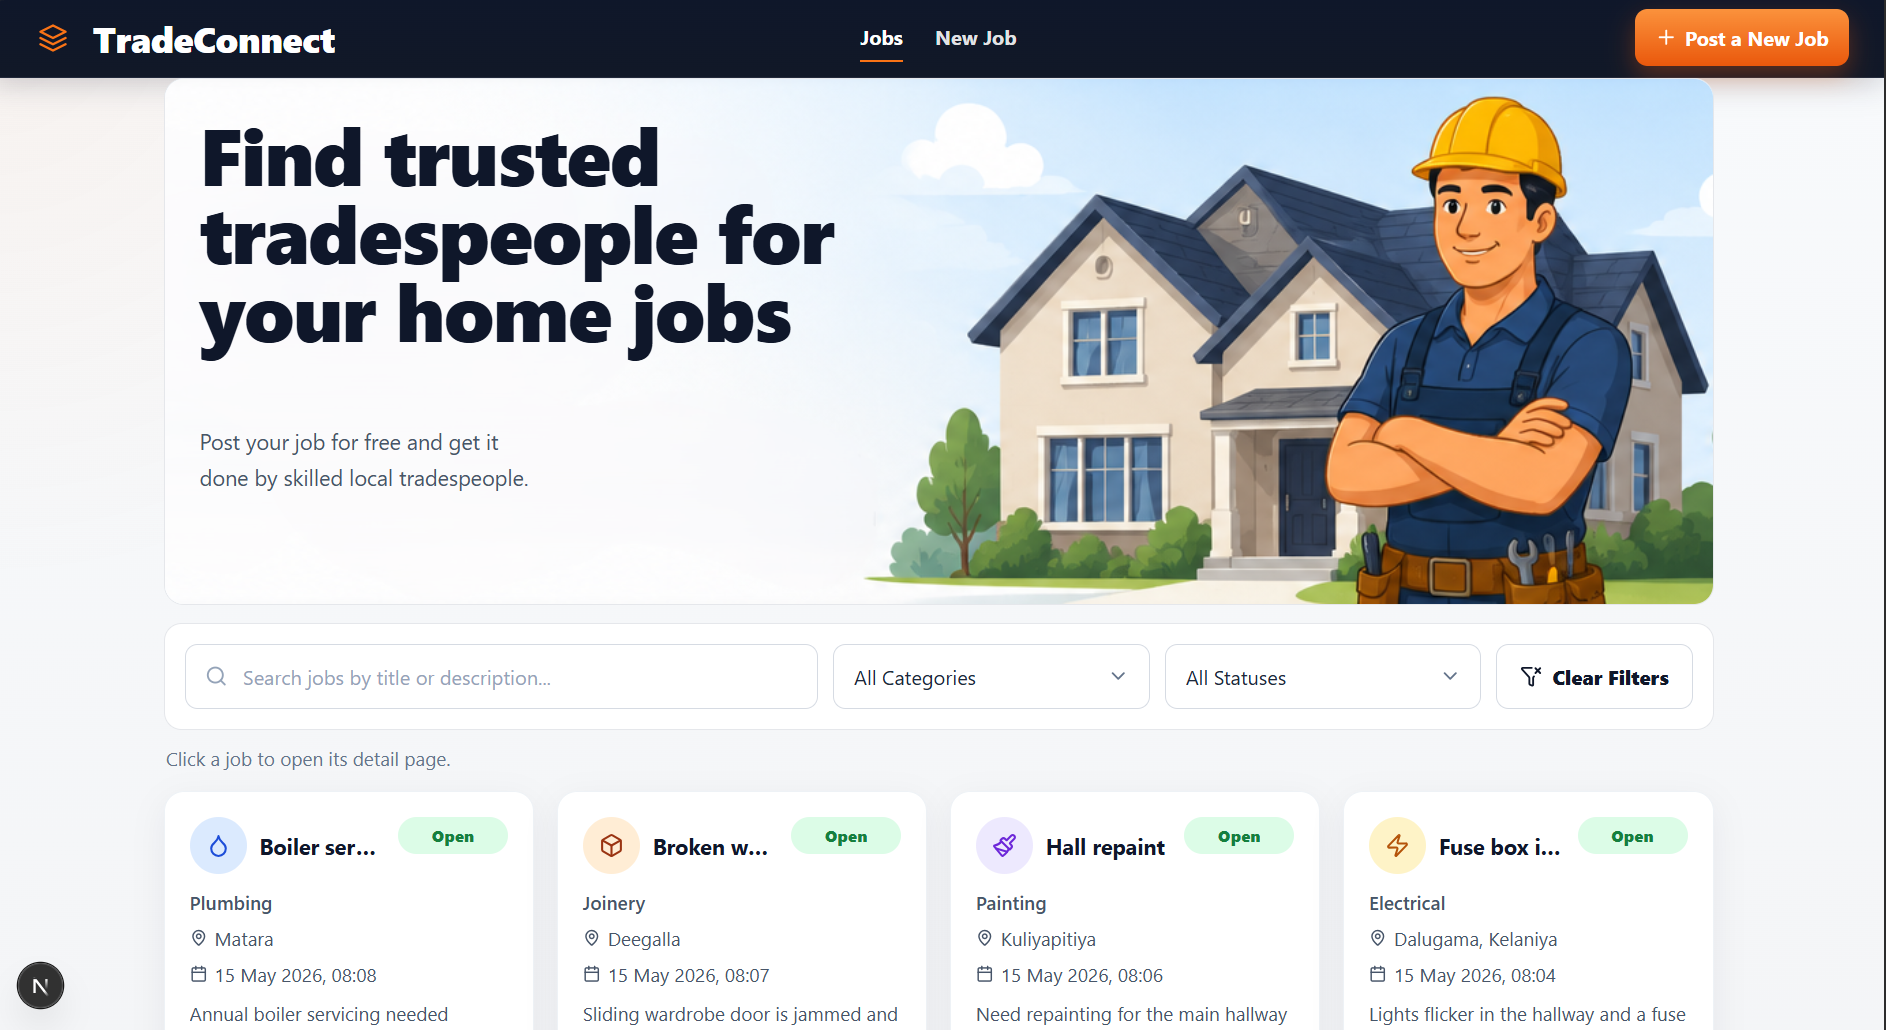
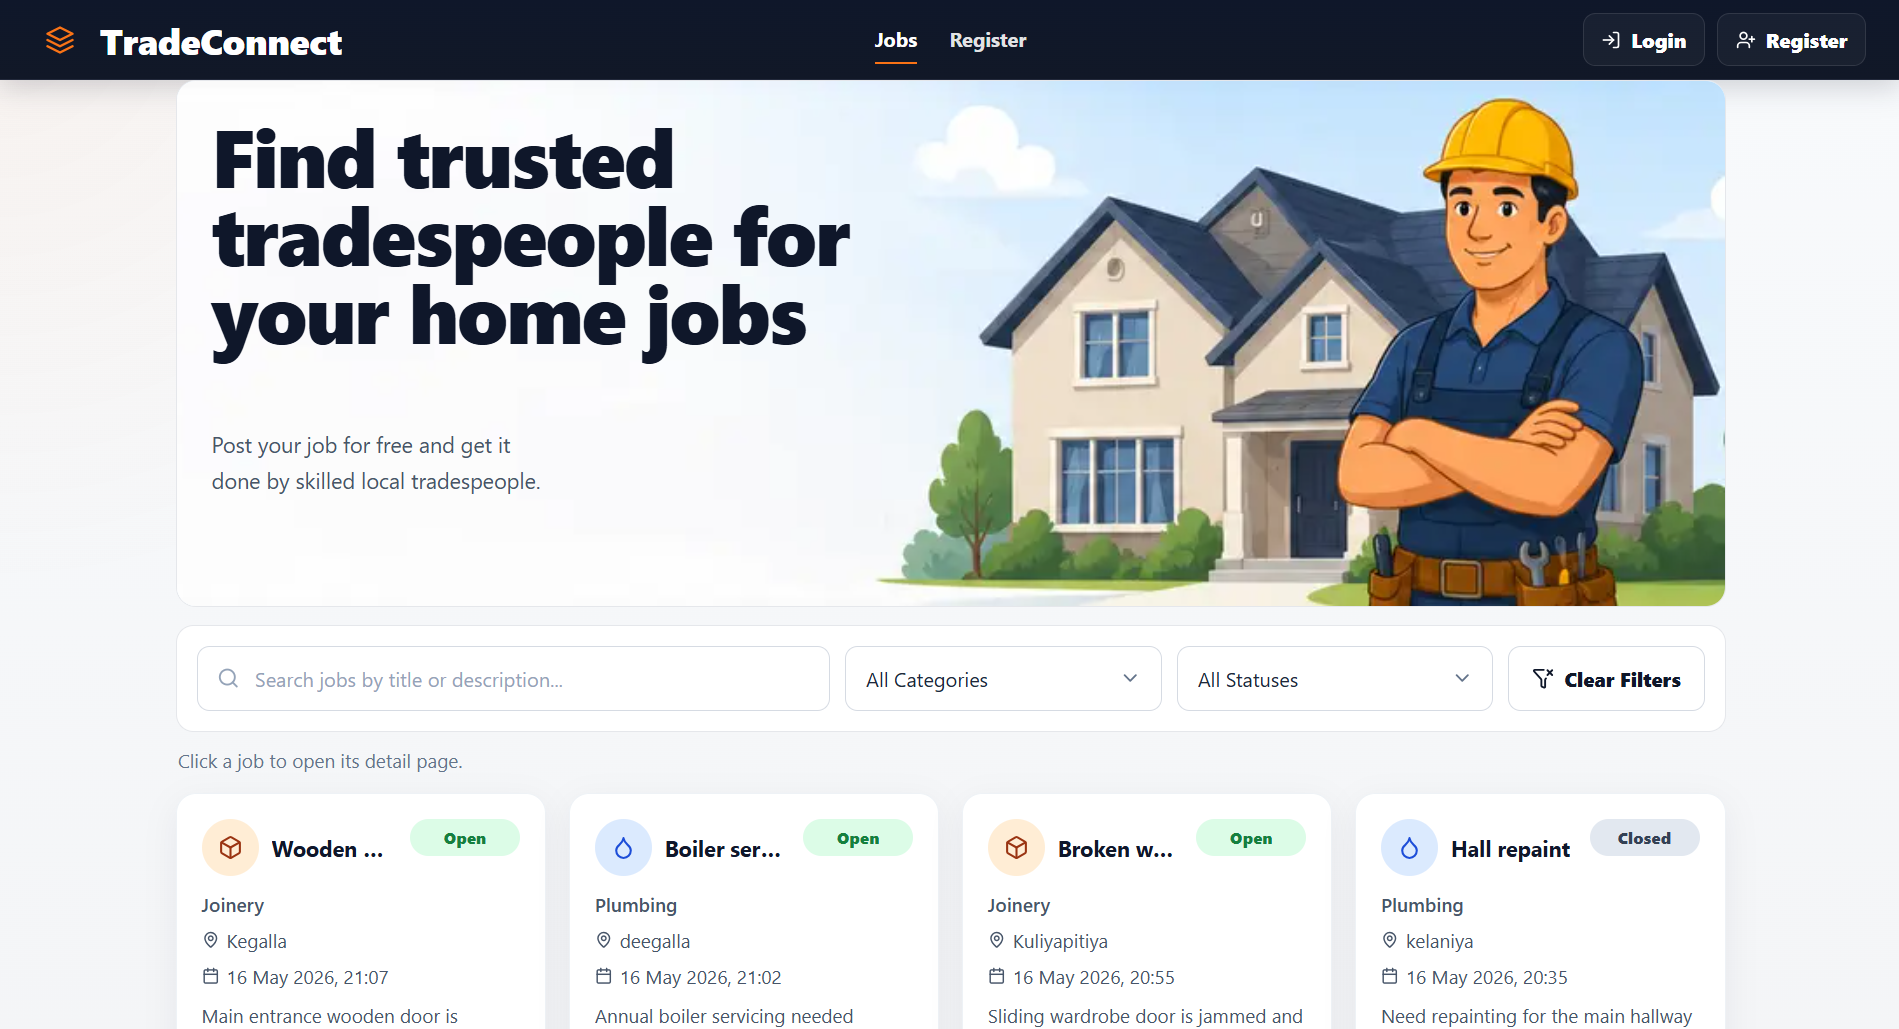
update readme

diff --git a/README.md b/README.md
@@ -93,14 +93,24 @@ TradeConnect/
       <img src="./screenshots/home.png" width="100%">
     </td>
     <td>
-      <h2 align="center">Details Page</h2>
-      <img src="./screenshots/details.png" width="100%">
+      <h2 align="center">Register Page</h2>
+      <img src="./screenshots/register.png" width="100%">
     </td>
   </tr>
   <tr>
     <td>
-      <h2 align="center">New Job Page</h2>
-      <img src="./screenshots/new-job.png" width="100%">
+      <h2 align="center">Login Page</h2>
+      <img src="./screenshots/login.png" width="100%">
+    </td>
+    <td>
+      <h2 align="center">Home Owner Post New Job</h2>
+      <img src="./screenshots/new_job.png" width="100%">
+    </td>
+  </tr>
+  <tr>
+    <td>
+      <h2 align="center">Tradesperson Update Status</h2>
+      <img src="./screenshots/update_status.png" width="100%">
     </td>
   </tr>
 </table>
@@ -145,7 +155,7 @@ TradeConnect/
 ## 1. Clone Repository
 
 ```bash
-git clone https://github.com/your-username/your-repository-name.git
+git clone https://github.com/Thiyumi2003/TradeConnect.git
 cd TradeConnect
 ```
 
@@ -300,13 +310,7 @@ Hosted on MongoDB Atlas.
 
 # Author
 
-Nipun Jayakody
+Thiyumi Upasari
 
 GitHub:  
-https://github.com/your-github-username
-
----
-
-# License
-
-This project was created for a Full-Stack Developer Intern technical assessment.
+https://github.com/Thiyumi2003
